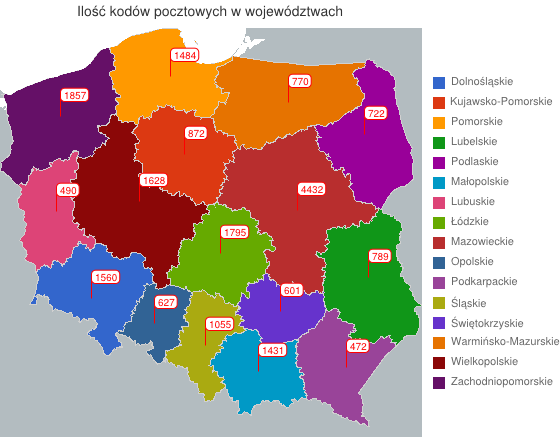
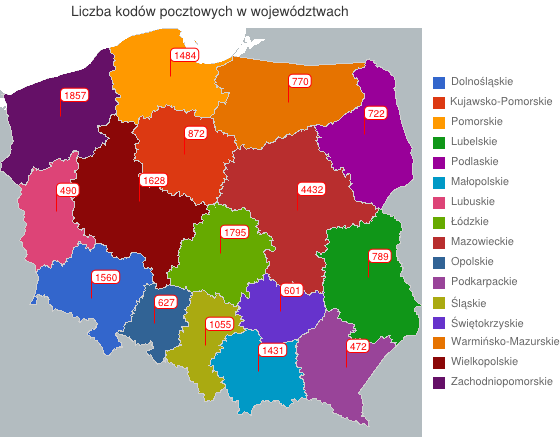
ilosc -> liczba

Changed region(s): [[0.1214, 0.0, 0.6375, 0.0591]]

diff --git a/docs/mmroczkowski.md b/docs/mmroczkowski.md
@@ -50,7 +50,7 @@ Do pobrania kodów pocztowych wykorzystałem API sejmometru w PHP, całością z
 
 # Agregacje
 
-## 5 miast z największą ilością kodów pocztowych
+## 5 miast z największą liczbą kodów pocztowych
 
 ```php
 $db->aggregate(array(
@@ -121,17 +121,17 @@ array(5) {
 //chart.googleapis.com/chart
    ?chxr=0,0,4100
    &chxt=y
-   &chbh=a,4,7
+   &chbh=a,1,7
    &chs=360x325
    &cht=bvg
    &chco=A2C180,3D7930,FF9900,7777CC,BBCCED
    &chds=0,4001,0,4001,0,4001,0,4001,0,4001
    &chd=t:4001|1618|1248|1214|1126
    &chdl=Warszawa|Łódź|Wrocław|Poznań|Szczecin
-   &chtt=Miasta+z+największą+ilością+kodów+pocztowych
+   &chtt=Miasta+z+największą+liczbą+kodów+pocztowych
 ```
 
-## Ilość kodów pocztowych w każdym województwie
+## Liczba kodów pocztowych w każdym województwie
 
 ```php
 $db->aggregate(array(
@@ -285,12 +285,12 @@ array(17) {
    &chld=PL-DS|PL-KP|PL-PM|PL-LU|PL-PD|PL-MA|PL-LB|PL-LD|PL-MZ|PL-OP|PL-PK|PL-SL|PL-SK|PL-WN|PL-WP|PL-ZP
    &chdl=Dolnośląskie|Kujawsko-Pomorskie|Pomorskie|Lubelskie|Podlaskie|Małopolskie|Lubuskie|Łódzkie|Mazowieckie|Opolskie|Podkarpackie|Śląskie|Świętokrzyskie|Warmińsko-Mazurskie|Wielkopolskie|Zachodniopomorskie
    &chm=f872,FF0000,0,1,10|f1560,FF0000,0,0,10|f1484,FF0000,0,2,10|f789,FF0000,0,3,10|f722,FF0000,0,4,10|f1431,FF0000,0,5,10|f490,FF0000,0,6,10|f1795,FF0000,0,7,10|f4432,FF0000,0,8,10|f627,FF0000,0,9,10|f472,FF0000,0,10,10|f1055,FF0000,0,11,10|f601,FF0000,0,12,10|f770,FF0000,0,13,10|f1628,FF0000,0,14,10|f1857,FF0000,0,15,10
-   &chtt=Ilość+kodów+pocztowych+w+województwach
+   &chtt=Liczba+kodów+pocztowych+w+województwach
 ```
 
 Jak widać niektóre miasta nie są przypisane do żadnego województwa
 
-## Miasta we wszystkich województwach z największą i najmniejszą ilością kodów
+## Miasta we wszystkich województwach z największą i najmniejszą liczbą kodów pocztowych
 
 ```php
 $db->aggregate(array(
@@ -559,6 +559,6 @@ array(17) {
    &chds=0,1125,5,1175
    &chd=t:1,1,1,1,1,1,1,1,1,1,1,1,1,1,1,1|145,1126,562,343,351,341,354,497,664,598,592,638,476,598,344,629
    &chma=|15
-   &chtt=Min+i+max+ilość+kodów+pocztowych+w+miastach+w+woj.
+   &chtt=Minimalna+i+maksymalna+liczba+kodów+pocztowych+w+miastach+w+woj.
    &chts=676767,16.5
 ```
